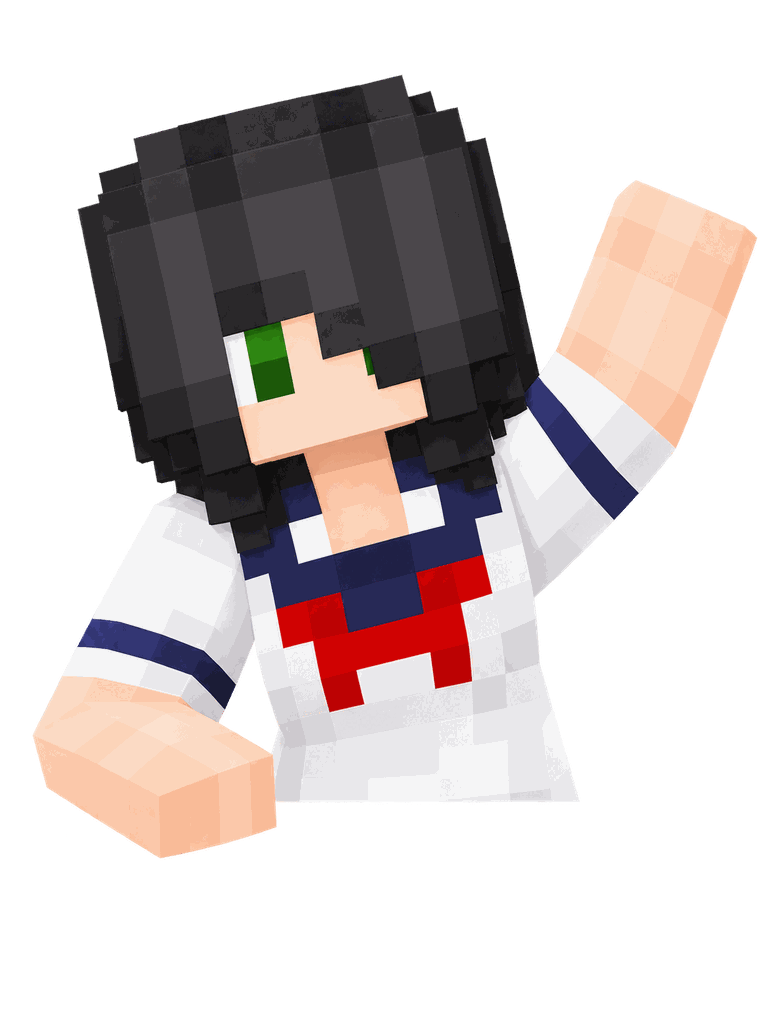
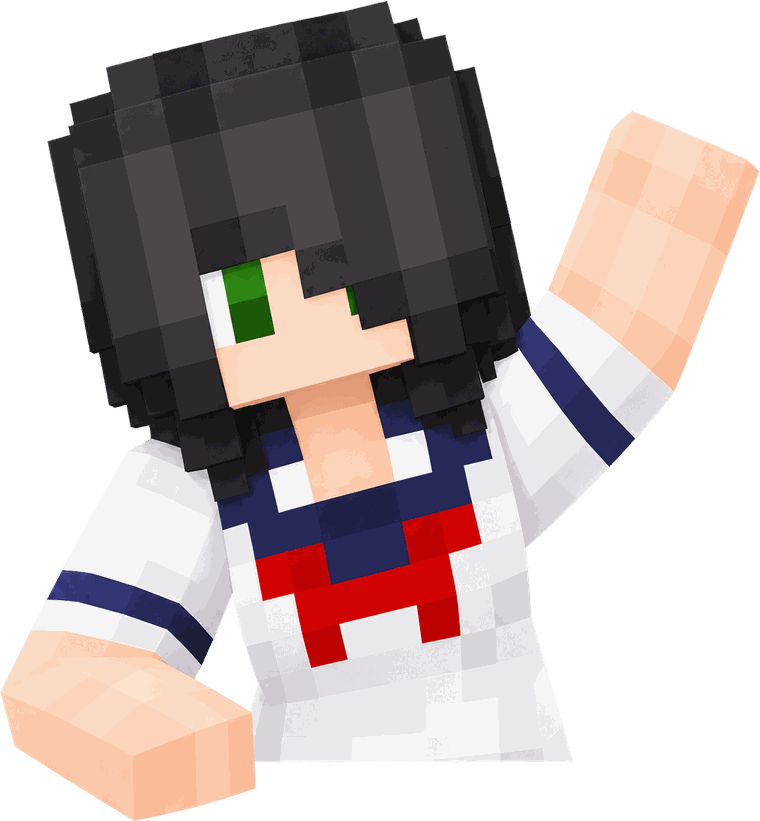
fix: sit Urabe on the card edge and give the copy room (#454)
She floated above the frame because the asset did, not because the CSS
did: the render carries a faint alpha halo out to the image edge, so
trimming on alpha > 0 kept it, and quantisation then snapped it away and
left 142px of transparent padding under her feet. Trimmed on a
visibility threshold and re-trimmed after quantising, so the file is the
figure and nothing else.

The copy sat against the card's left edge and she sat against its right.
The card now carries 4rem of left padding on wide screens and she moves
3rem in from the right, a little larger to keep the same overhang.

diff --git a/devblog/theme.py b/devblog/theme.py
@@ -612,11 +612,11 @@ a { color: inherit; }
 @media (min-width: 1024px) {
   /* Clearance overhead for the part of her that leaves the card. */
   .community { padding-top: 7rem; }
-  .community-card { text-align: left; padding-right: 20rem; }
+  .community-card { text-align: left; padding: 3.5rem 22rem 3.5rem 4rem; }
   .community-card .community-links { justify-content: flex-start; }
   .community-mascot {
-    position: absolute; right: .25rem; bottom: 0; margin: 0;
-    width: min(19rem, 26vw);
+    position: absolute; right: 3rem; bottom: 0; margin: 0;
+    width: min(21rem, 28vw);
   }
 }
 .community-card h2 { margin: 0 0 .5rem; font-size: 2rem; font-weight: 700; color: var(--ink); }
@@ -1126,7 +1126,7 @@ def _community(prefix: str) -> str:
     return (
         '<section class="community"><div class="community-card">'
         '<img class="community-mascot" src="%sassets/urabe.png" alt="" aria-hidden="true"'
-        ' width="760" height="1015" decoding="async">'
+        ' width="760" height="821" decoding="async">'
         "<h2>Join our community!</h2>"
         "<p>Get the latest updates and more.</p>"
         '<div class="community-links">%s</div>'

diff --git a/devblog/tests/test_build.py b/devblog/tests/test_build.py
@@ -285,6 +285,19 @@ class ThemeTests(unittest.TestCase):
         self.assertNotIn("overflow: hidden", theme.STYLESHEET.split("community band")[1]
                          .split("/* =====")[0])
 
+    def test_the_mascot_asset_is_trimmed_to_the_figure(self):
+        """Transparent padding in the file reads as bad spacing on the page.
+
+        She is positioned by her bottom edge, so a band of invisible pixels under
+        her feet lifts her off the card and there is no CSS fix for it.
+        """
+        from struct import unpack
+
+        png = (Path(__file__).resolve().parents[1] / "static" / "urabe.png").read_bytes()
+        width, height = unpack(">II", png[16:24])
+        markup = theme._community("")
+        self.assertIn('width="%d" height="%d"' % (width, height), markup)
+
     def test_the_mascot_is_addressed_relative_to_the_page_that_shows_her(self):
         self.assertIn('src="../assets/urabe.png"', theme._community("../"))
 
